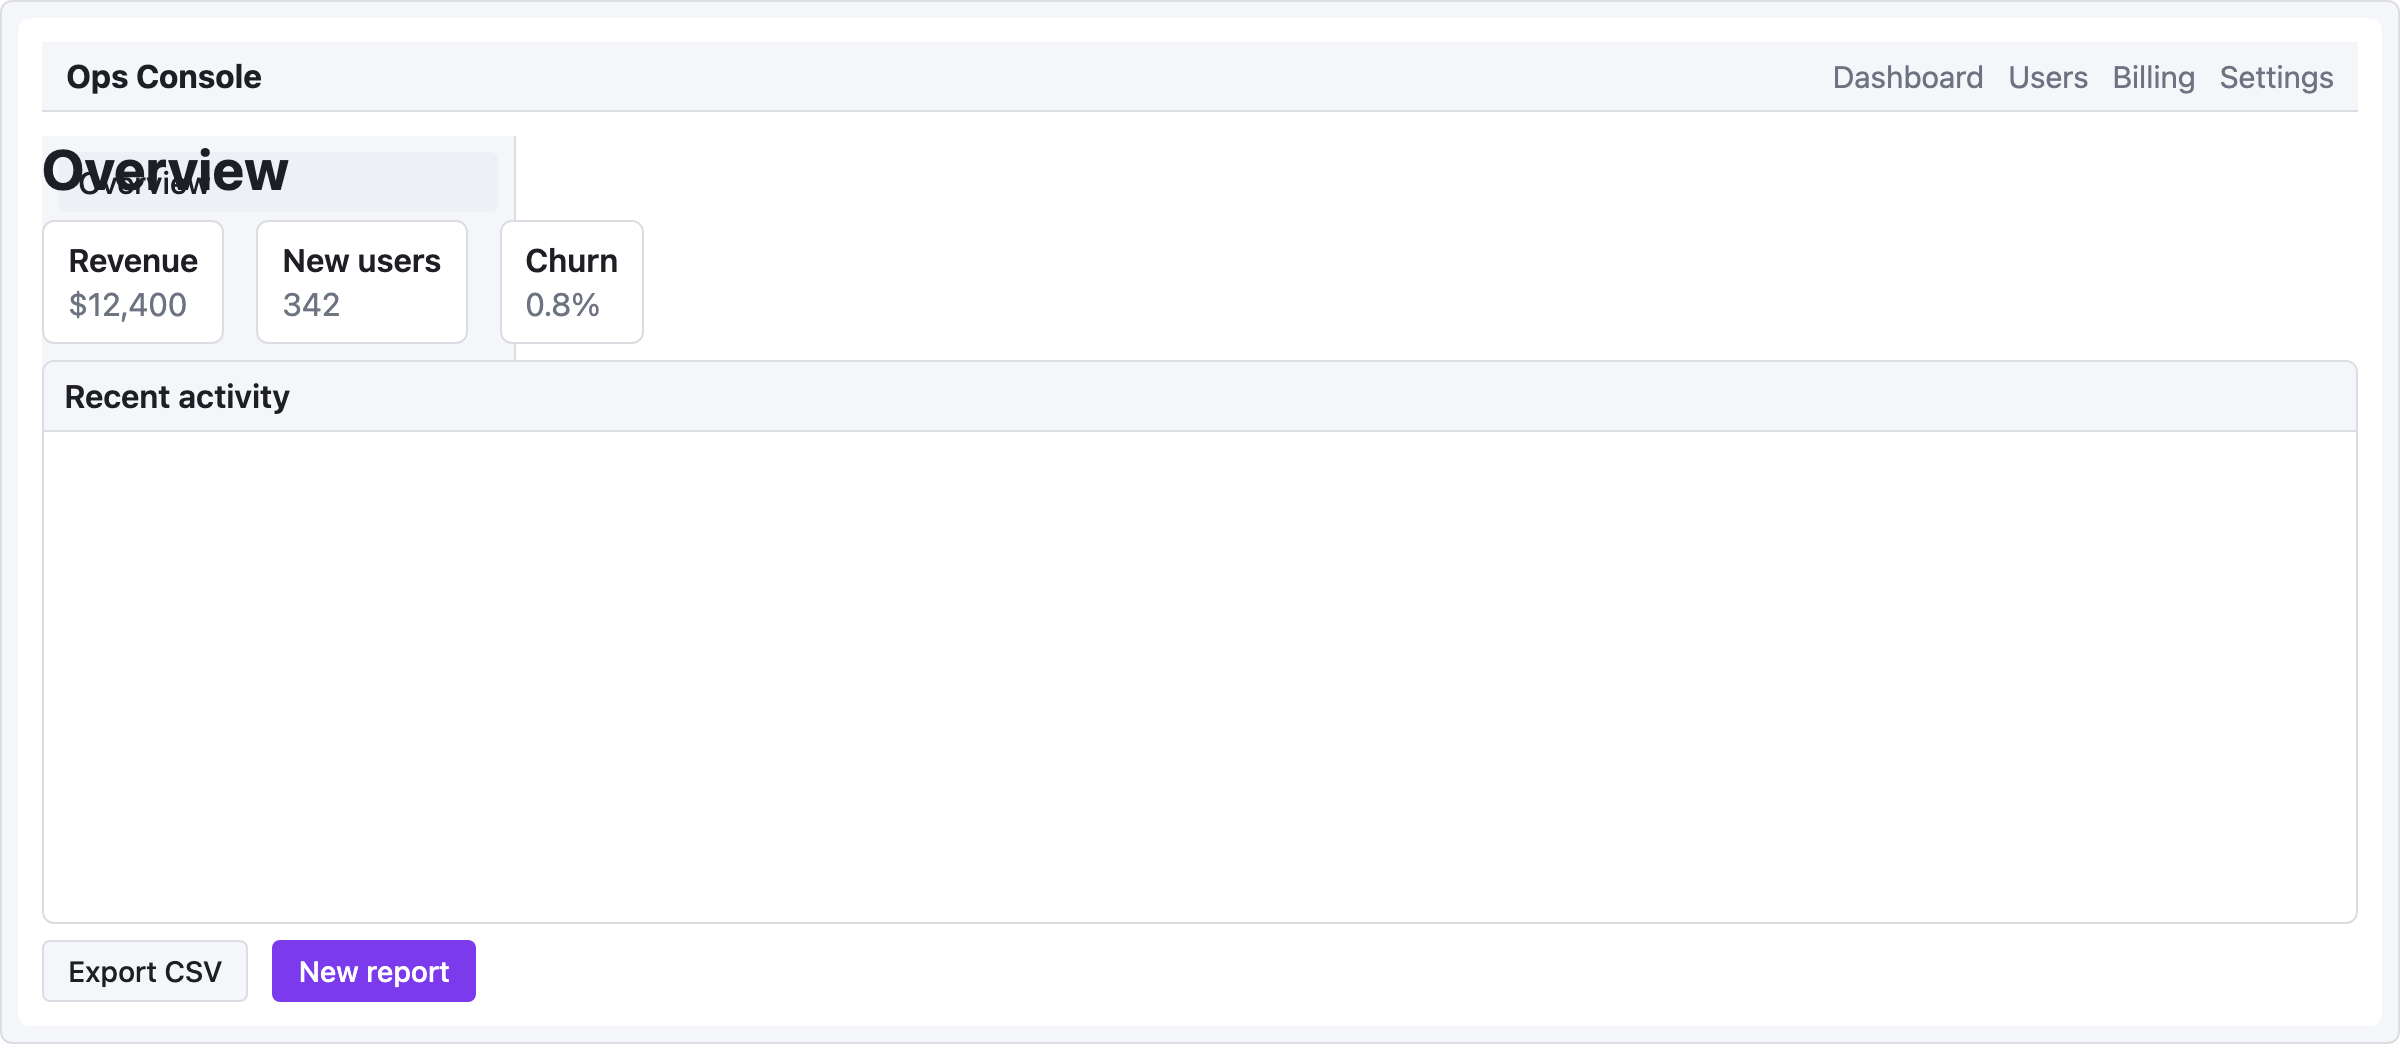
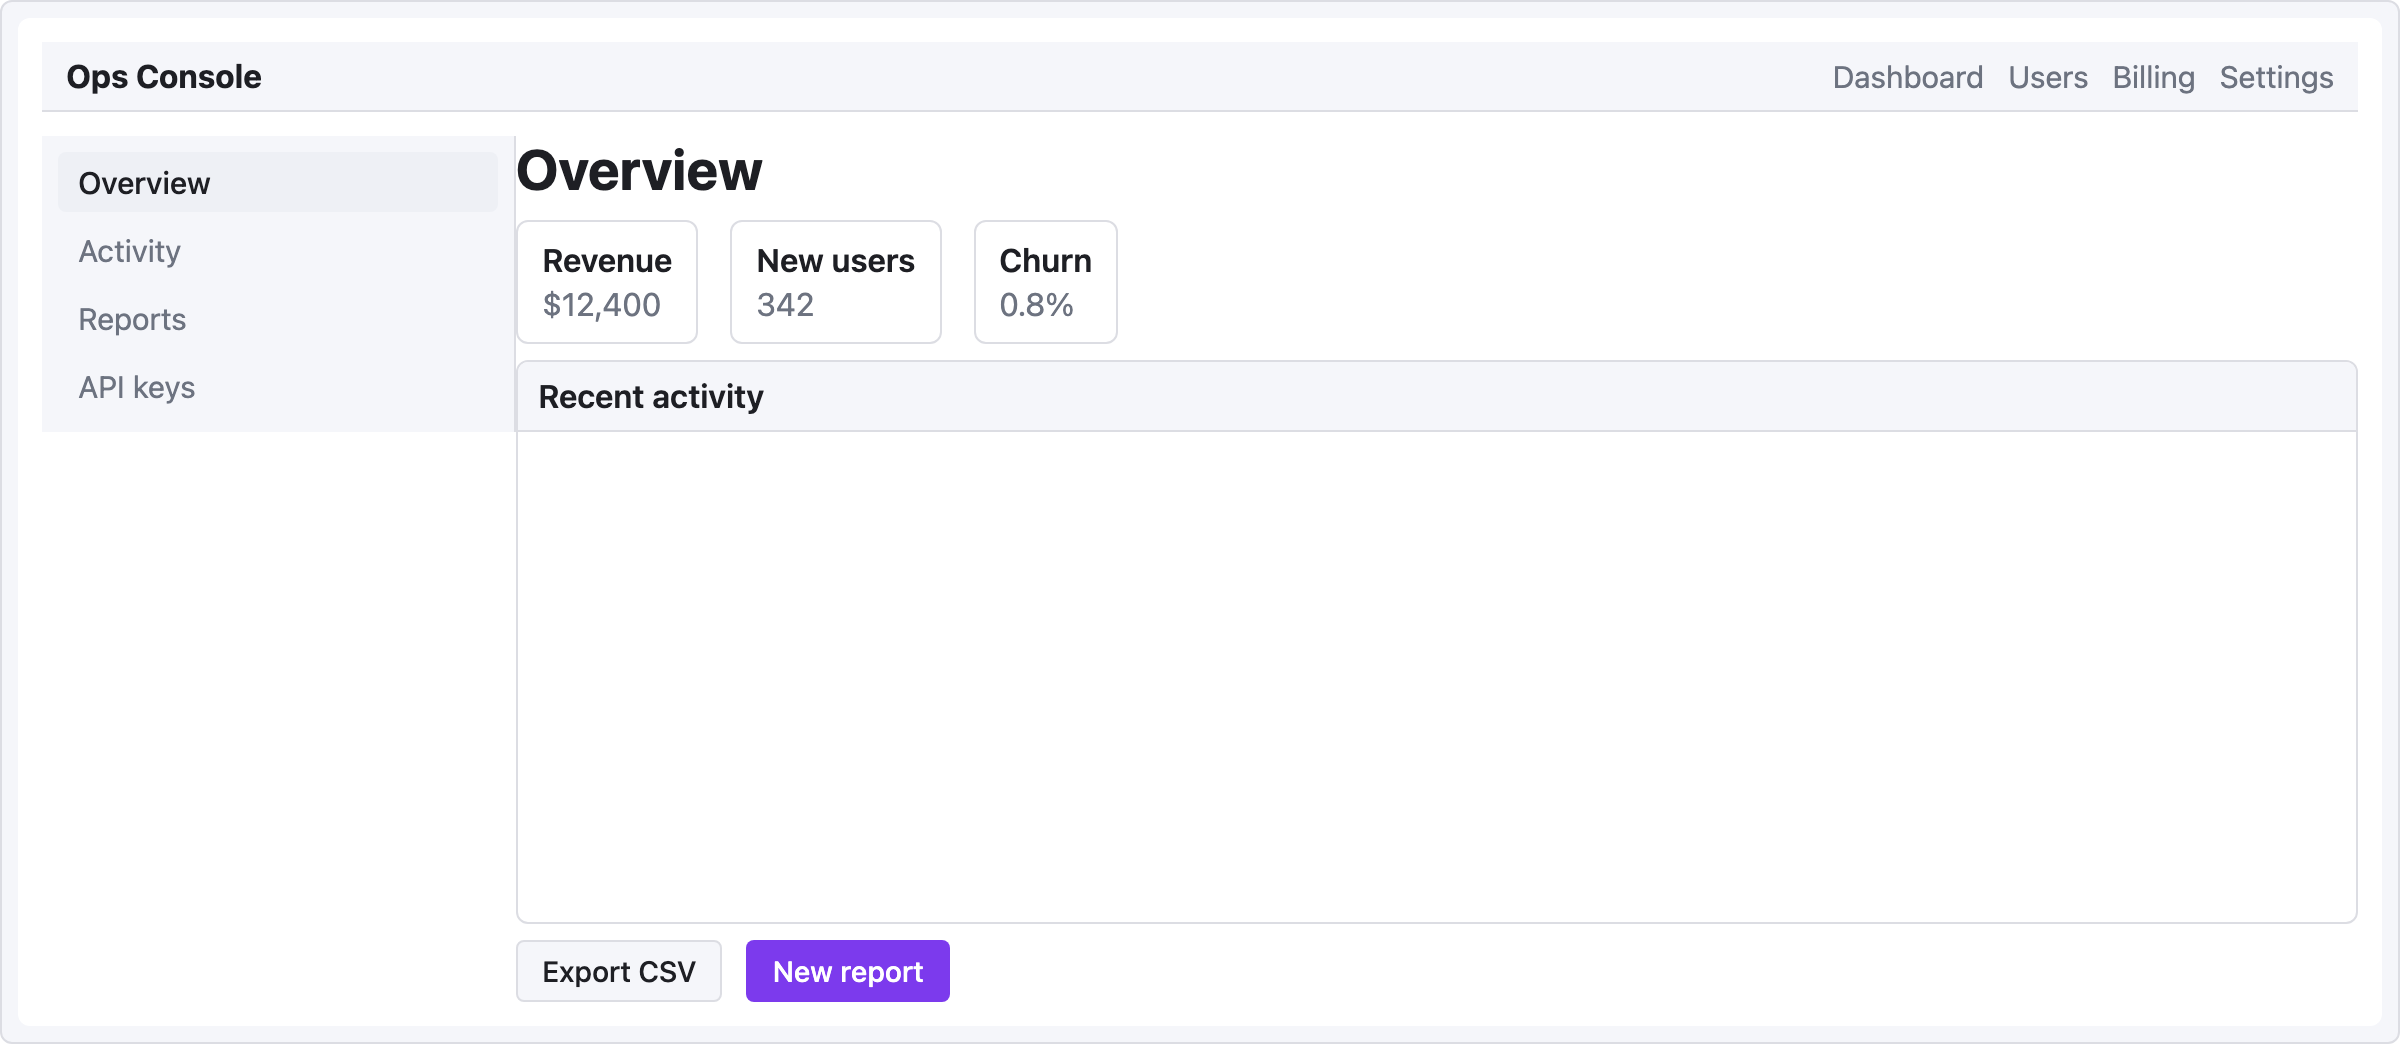
fix(renderer): col with flex:0 sizes to content, not to 0 width
A col declared with flex:0 was compiling to CSS flex: 0 1 0, which
collapses the column to zero width and lets children overflow the
flex container. Fixed-width sidebars (col with flex:0 containing
sidebar{w:220}) were rendering with the sidebar items bleeding into
the main area.

The fix uses flex: 0 0 auto when flex === 0 — no grow, no shrink,
natural content size. flex > 0 keeps the classic 'N 1 0' grow/shrink
behavior.

Adds a regression test in tests/renderer/layout.test.ts and
refreshes the three recipe screenshots that render a flex sidebar.

Bumps version 0.2.1 → 0.2.2 and updates versions.json.

diff --git a/tests/renderer/layout.test.ts b/tests/renderer/layout.test.ts
@@ -32,6 +32,24 @@ describe("renderLayoutNodes", () => {
     expect((cols[1] as HTMLElement).style.flex).toContain("3");
   });
 
+  it("col with flex:0 sizes to content (0 0 auto), not to 0 width", () => {
+    const host = document.createElement("div");
+    host.appendChild(
+      renderLayoutNodes([
+        {
+          kind: "row",
+          items: [
+            { kind: "col", flex: 0, items: [{ kind: "component", type: "sidebar", props: { w: 220 } }] },
+            { kind: "col", flex: 1, items: [{ kind: "component", type: "card", props: { title: "Main" } }] },
+          ],
+        },
+      ]),
+    );
+    const cols = host.querySelectorAll(".uis-col");
+    expect((cols[0] as HTMLElement).style.flex).toBe("0 0 auto");
+    expect((cols[1] as HTMLElement).style.flex).toBe("1 1 0px");
+  });
+
   it("renders an unknown component as an inline L3 error", () => {
     const host = document.createElement("div");
     host.appendChild(renderLayoutNodes([{ kind: "component", type: "mystery", props: {} }]));

diff --git a/src/renderer/layout.ts b/src/renderer/layout.ts
@@ -33,7 +33,11 @@ function renderRow(n: RowNode, path: string): HTMLElement {
 function renderCol(n: ColNode, path: string): HTMLElement {
   const el = document.createElement("div");
   el.className = "uis-col";
-  if (typeof n.flex === "number") el.style.flex = `${n.flex} 1 0`;
+  if (typeof n.flex === "number") {
+    // flex:0 means "size to content" — a fixed-width sidebar shouldn't
+    // collapse to 0 or shrink. flex>0 keeps the classic grow/shrink behavior.
+    el.style.flex = n.flex === 0 ? "0 0 auto" : `${n.flex} 1 0`;
+  }
   n.items.forEach((child, i) => el.appendChild(renderNode(child, `${path}.items[${i}]`)));
   return el;
 }
